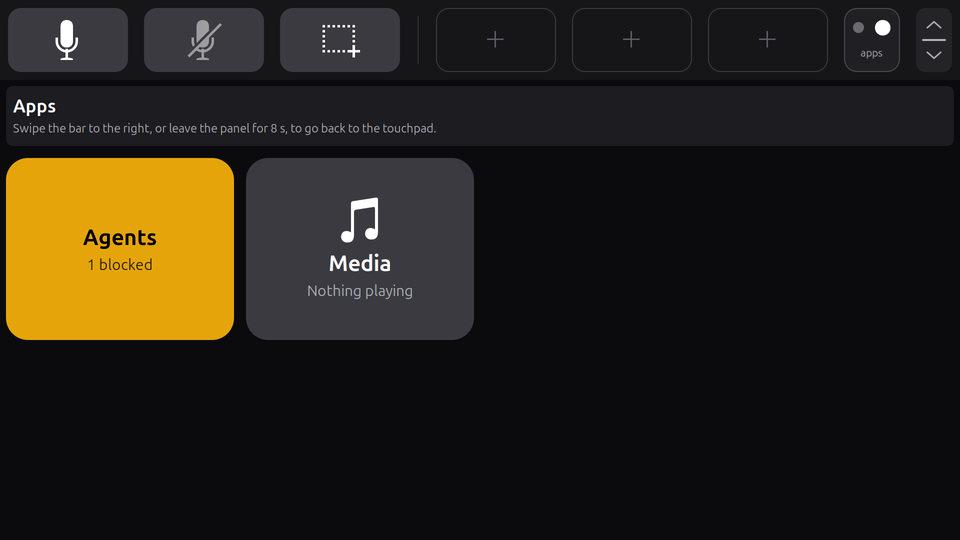
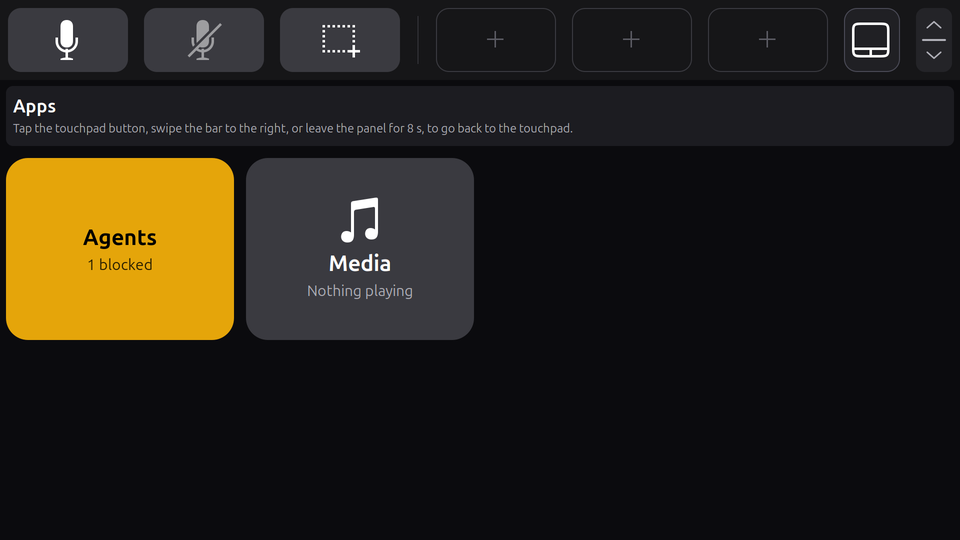
docs: refresh the screenshots with the page button
Rendered by the extension in a headless GNOME Shell 50.1 from the
daemon's own scenes, in a private session with its own HOME and XDG_*
directories (the live dconf checked untouched). The development notes
say to keep XDG_CURRENT_DESKTOP, which Ubuntu's schema overrides need.

Changed region(s): [[0.0, 0.2074, 0.5938, 0.2667], [0.875, 0.0296, 0.9375, 0.1185]]

diff --git a/docs/development.md b/docs/development.md
@@ -133,4 +133,4 @@ The agent app's tests use stand-ins only: a fake `herdr` script, and a fake firs
 - the card in the loop: Allow once, Always and Deny sending their keys and closing the card, a dialog that changes between draw and tap answered with nothing and drawn again with new buttons that need a fresh tap (the old ones then doing nothing), a state change likewise, the card following its screen and closing when its agent goes, Interrupt through `fm-control.sh` for a firstmate task and through Herdr's keys for another agent, an unknown harness read-only, and a failed send shown;
 - the decisions board: its path from `fm-bearings-board.sh path` with only `FM_HOME` (and never `build`), the session Lavish lists `open` for that file (both paths resolved, so a row listed through a symlink or with `//` or `.` matches) opened with the URL handler, none open (ended, another file, nothing listed) opening nothing, only a loopback `http` URL opened, `lavish-axi`, the opener and a missing script failing with why; and in the loop: a tap or a lift on the `calls` tile opening it (not a cancel, a long press or a lift off the tile), taps while it opens opening it once, no board open showing the one-answer card (a second tap replacing it, OK doing nothing), a failure shown on that card, a card the bar cannot show logged, and nothing sent to an agent or firstmate's control.
 
-The screenshots in `docs/images/` were rendered by the extension in a headless GNOME Shell 50.1 (`gnome-shell --headless --virtual-monitor 1920x1080`) fed the scenes the daemon's own code publishes (a script importing `screenpad_touchbar`, with the virtual monitor's identity from `org.gnome.Mutter.DisplayConfig`), then cropped to the bar, or scaled to half for the pages (`touchbar-touchpad-page.png` with the shell's system bus a second `dbus-daemon` in the private runtime directory, given in `DBUS_SYSTEM_BUS_ADDRESS`, where a stand-in UPower display device gives the battery level and changes it with `PropertiesChanged`; the shell then warns in a banner that screen locking needs the GNOME display manager, so turn banners off on the private bus with `org.gnome.desktop.notifications show-banners false`; `touchbar-apps-page.png` and `touchbar-app-page.png` with two apps' pages given through the daemon's own `Apps`; `agents-page.png` with the agent app itself, `./agents.py run`, connected to the daemon's own `AppServer` and fed the tests' stand-in Herdr and firstmate reader; `agents-card.png` with the app's `App` in the script's process, fed the tests' `FakeHerdr` and `FakeFirstmate`, after a tap on the blocked agent). Run it under `dbus-run-session` with its own `HOME` and `XDG_*` directories, so it touches nothing of your session. **Set them, and unset `DBUS_SESSION_BUS_ADDRESS`, `DISPLAY` and `WAYLAND_DISPLAY`, before starting `dbus-run-session`**, not in the script it runs: services the private bus starts on demand (dconf, gvfs, the portals) get the environment `dbus-run-session` started with, so otherwise `gsettings set` and the shell's own settings writes land in your real `~/.config/dconf/user`. Comparing that file's checksum before and after a run shows it stayed untouched; `org.gnome.Shell.Screenshot` answers only some bus names, such as `org.gnome.SettingsDaemon.MediaKeys`, which a script can own on that private bus. Keep the runtime directory's path short: Unix socket paths are limited to 108 bytes. To check notifications there, send them with `org.freedesktop.Notifications.Notify` on that bus; GNOME 50 sends `ActionInvoked` and `NotificationClosed` only to the notification's sender, so subscribe from the connection that sent it rather than with `gdbus monitor`. `docs/images/touchbar-notification.png` (a real notification, mirrored by the extension to the daemon's socket, which the script serves) and `touchbar-ask.png` come from such a session. To check that the screensaver stays behind windows and the apps page covers them, open a window there (`zenity --info` with `WAYLAND_DISPLAY=wayland-0` in the private runtime directory).
+The screenshots in `docs/images/` were rendered by the extension in a headless GNOME Shell 50.1 (`gnome-shell --headless --virtual-monitor 1920x1080`) fed the scenes the daemon's own code publishes (a script importing `screenpad_touchbar`, with the virtual monitor's identity from `org.gnome.Mutter.DisplayConfig`), then cropped to the bar, or scaled to half for the pages (`touchbar-touchpad-page.png` with the shell's system bus a second `dbus-daemon` in the private runtime directory, given in `DBUS_SYSTEM_BUS_ADDRESS`, where a stand-in UPower display device gives the battery level and changes it with `PropertiesChanged`; the shell then warns in a banner that screen locking needs the GNOME display manager, so turn banners off on the private bus with `org.gnome.desktop.notifications show-banners false`; `touchbar-apps-page.png` and `touchbar-app-page.png` with two apps' pages given through the daemon's own `Apps`; `agents-page.png` and `agents-card.png` with the agent app's `App` in the script's process, connected to the daemon's own `AppServer` and fed the tests' `FakeHerdr` and `FakeFirstmate`, the card after a tap on the blocked agent). Run it under `dbus-run-session` with its own `HOME` and `XDG_*` directories, so it touches nothing of your session. Keep `XDG_CURRENT_DESKTOP` as your session has it (`ubuntu:GNOME` on Ubuntu): Ubuntu's schema overrides, which give the icons and font the screenshots show, apply only to that desktop. **Set them, and unset `DBUS_SESSION_BUS_ADDRESS`, `DISPLAY` and `WAYLAND_DISPLAY`, before starting `dbus-run-session`**, not in the script it runs: services the private bus starts on demand (dconf, gvfs, the portals) get the environment `dbus-run-session` started with, so otherwise `gsettings set` and the shell's own settings writes land in your real `~/.config/dconf/user`. Comparing that file's checksum before and after a run shows it stayed untouched; `org.gnome.Shell.Screenshot` answers only some bus names, such as `org.gnome.SettingsDaemon.MediaKeys`, which a script can own on that private bus. Keep the runtime directory's path short: Unix socket paths are limited to 108 bytes. To check notifications there, send them with `org.freedesktop.Notifications.Notify` on that bus; GNOME 50 sends `ActionInvoked` and `NotificationClosed` only to the notification's sender, so subscribe from the connection that sent it rather than with `gdbus monitor`. `docs/images/touchbar-notification.png` (a real notification, mirrored by the extension to the daemon's socket, which the script serves) and `touchbar-ask.png` come from such a session. To check that the screensaver stays behind windows and the apps page covers them, open a window there (`zenity --info` with `WAYLAND_DISPLAY=wayland-0` in the private runtime directory).
